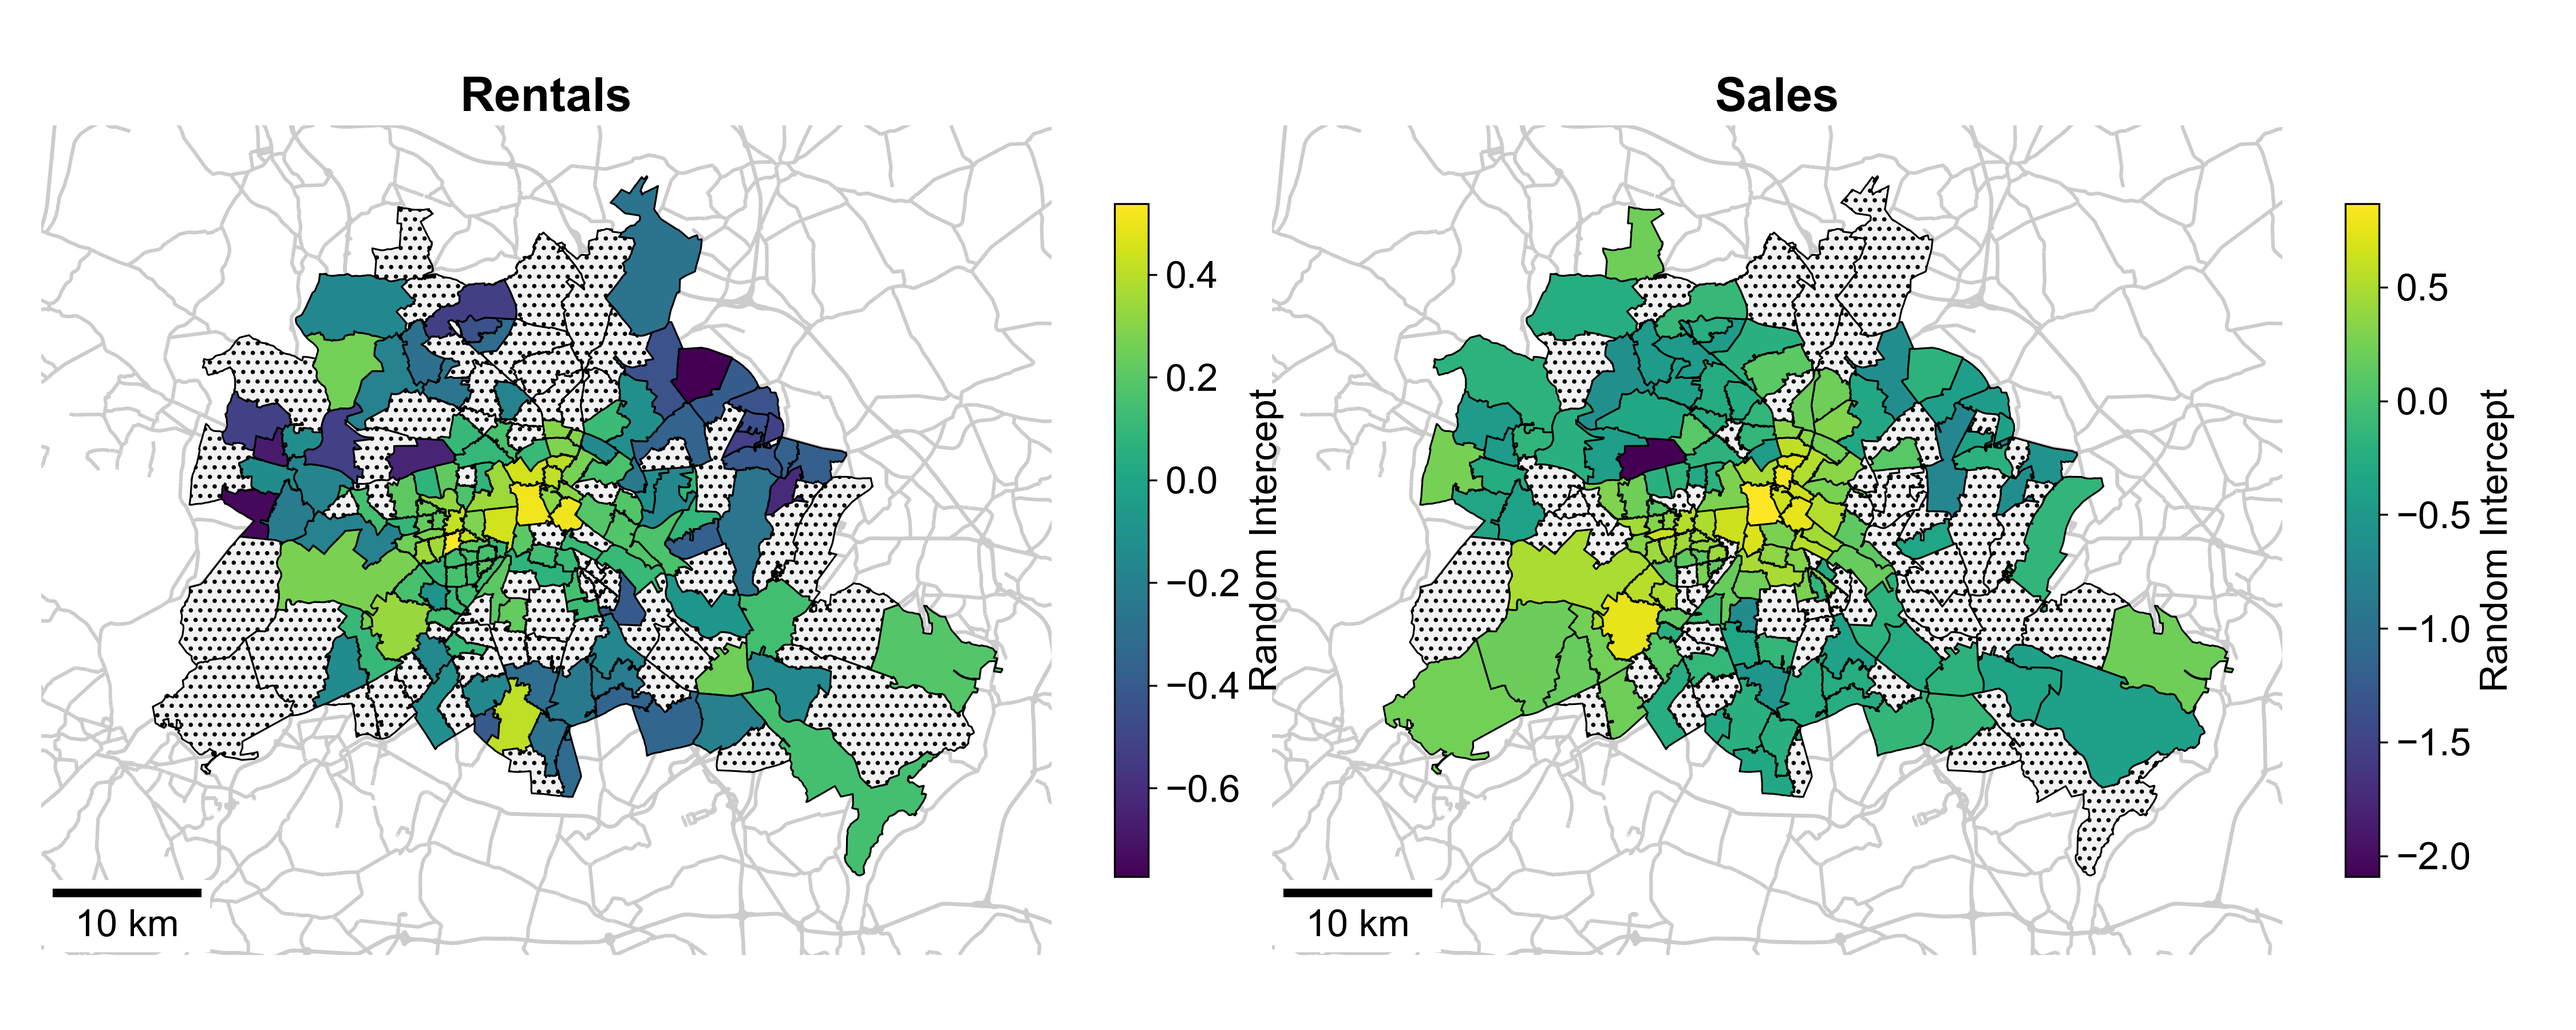
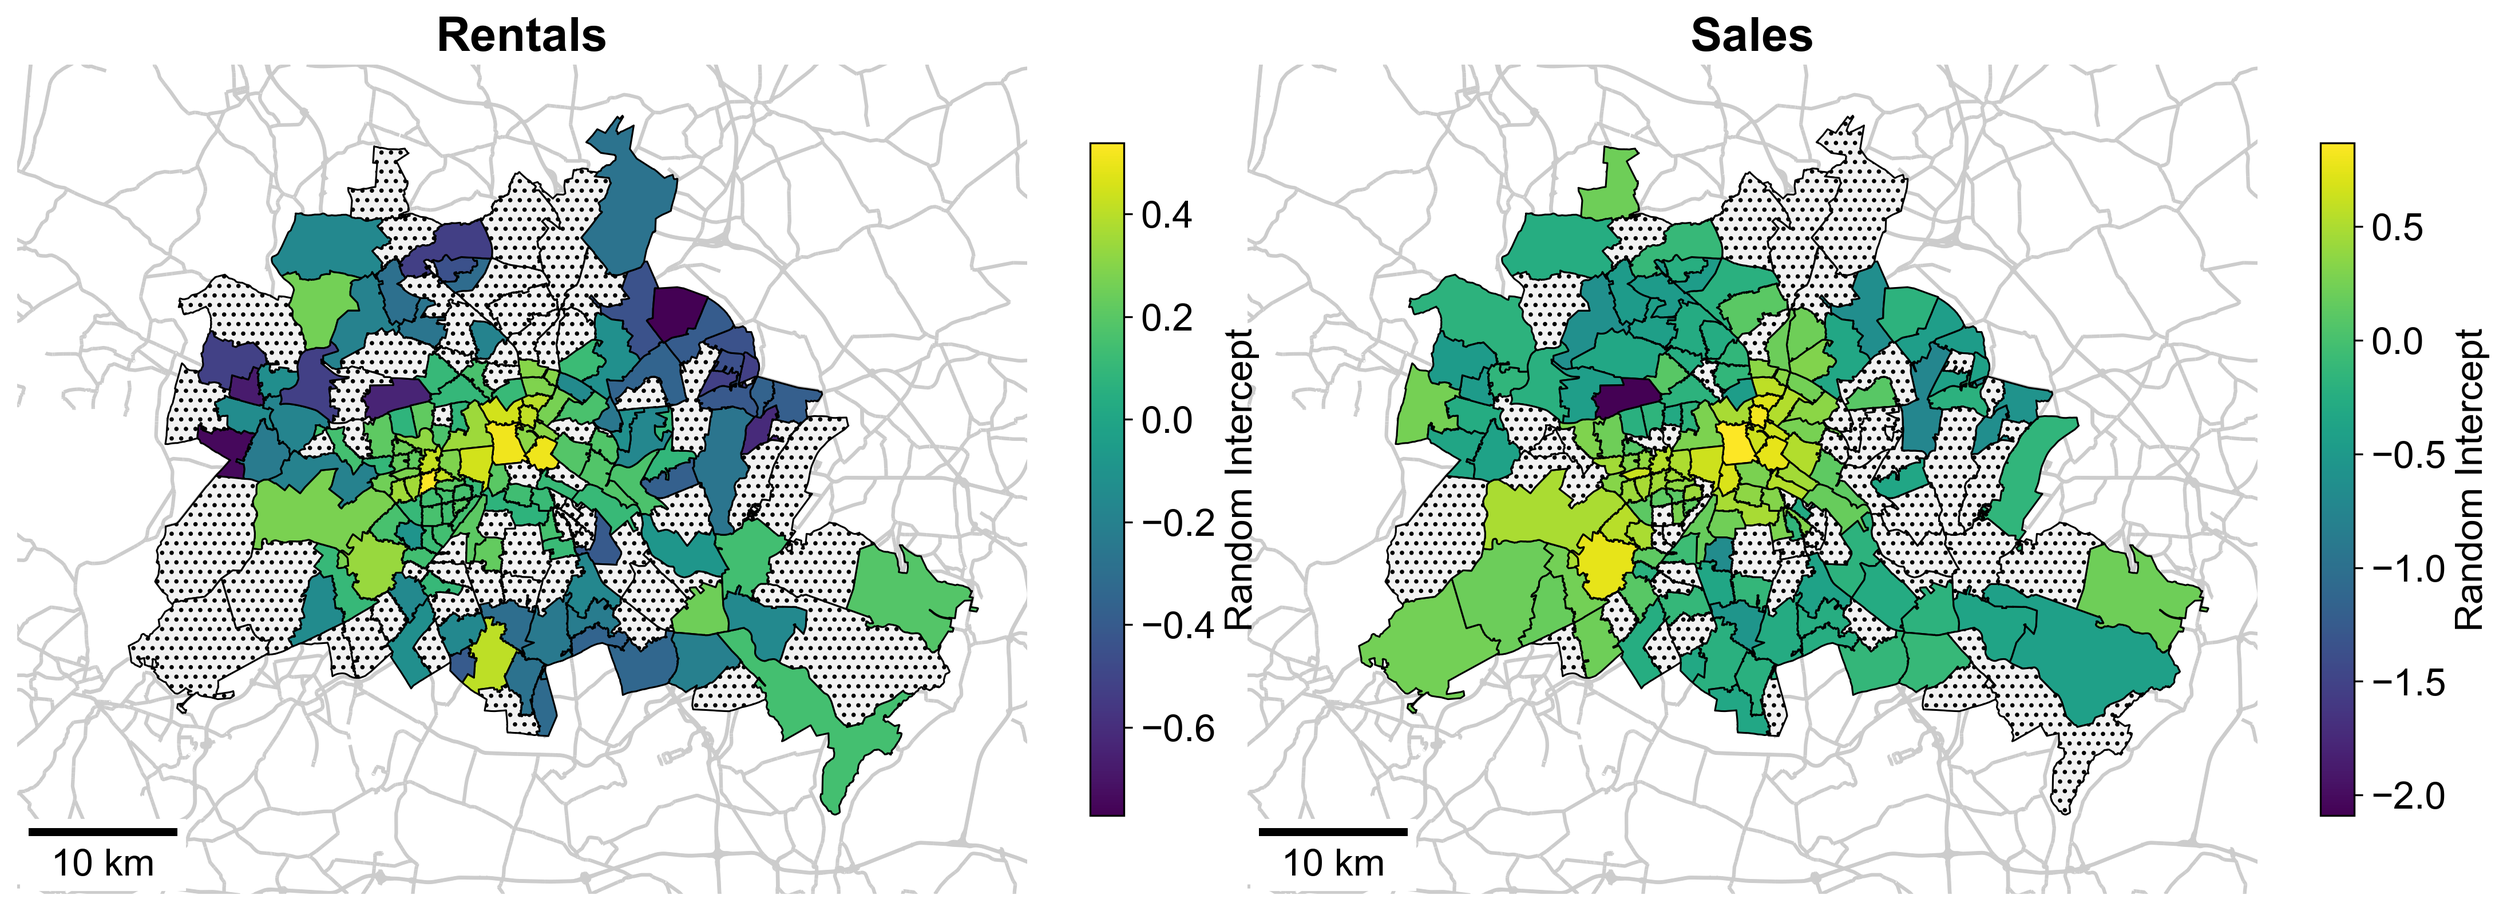
tight plots

diff --git a/scripts/prediction_plots.py b/scripts/prediction_plots.py
@@ -325,7 +325,7 @@ merged_sales = plot_geoplot("sales", fig, axes[1])
 
 
 plt.savefig(
-    ROOT_DIR + "documents/plots/geoplot_rentals_and_sales.png", dpi=300, facecolor="w"
+    ROOT_DIR + "documents/plots/geoplot_rentals_and_sales.png", dpi=300, facecolor="w", bbox_inches="tight"
 )
 
 #%%
@@ -393,11 +393,11 @@ def create_dist_to_mitte_plot(merged_df, ax, title):
     ax.set_ylabel("Multiplicative Price Effect")
 
 
-fig, axes = plt.subplots(1, 2, figsize=(16, 6))
+fig, axes = plt.subplots(1, 2, figsize=(15, 5))
 create_dist_to_mitte_plot(merged_rentals, axes[0], title="Rentals")
 create_dist_to_mitte_plot(merged_sales, axes[1], title="Sales")
 
 fig.suptitle("Distance to Mitte (km) vs. Multiplicative Price Effect", weight="bold")
 sns.despine()
 plt.tight_layout()
-plt.savefig(ROOT_DIR + "documents/plots/dist_to_mitte.png", dpi=300, facecolor="w")
+plt.savefig(ROOT_DIR + "documents/plots/dist_to_mitte.png", dpi=300, facecolor="w", bbox_inches="tight")
